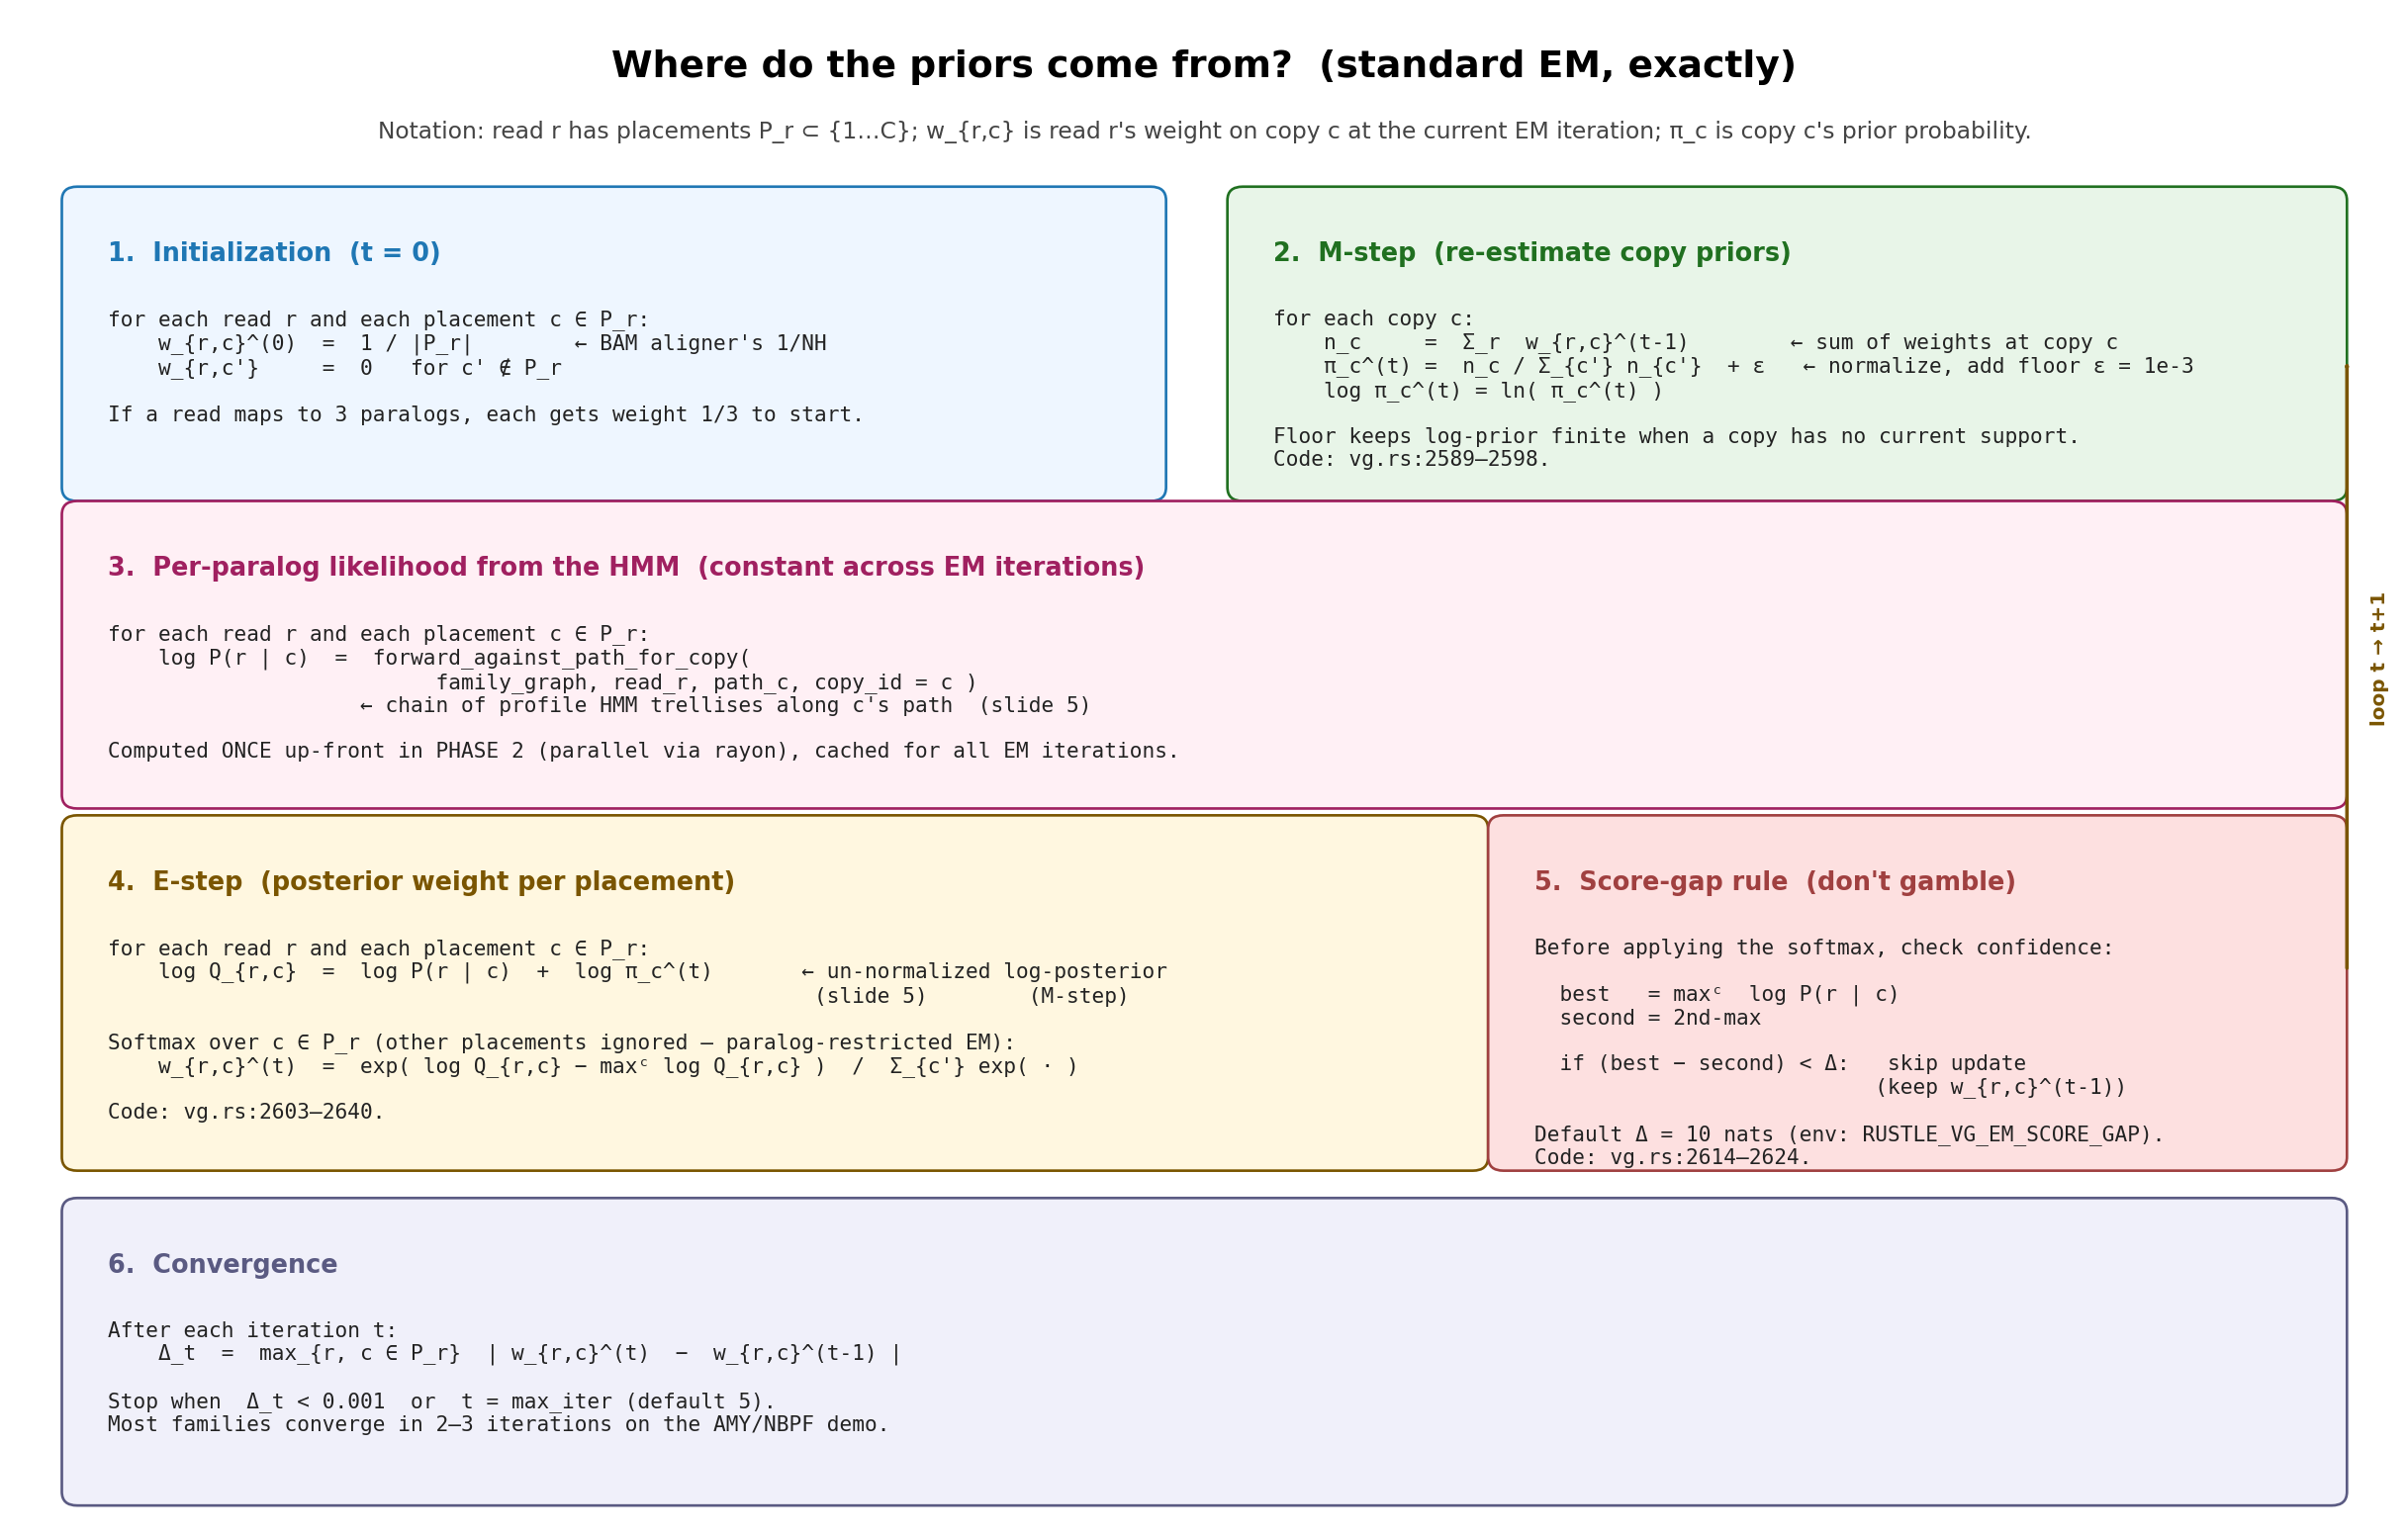
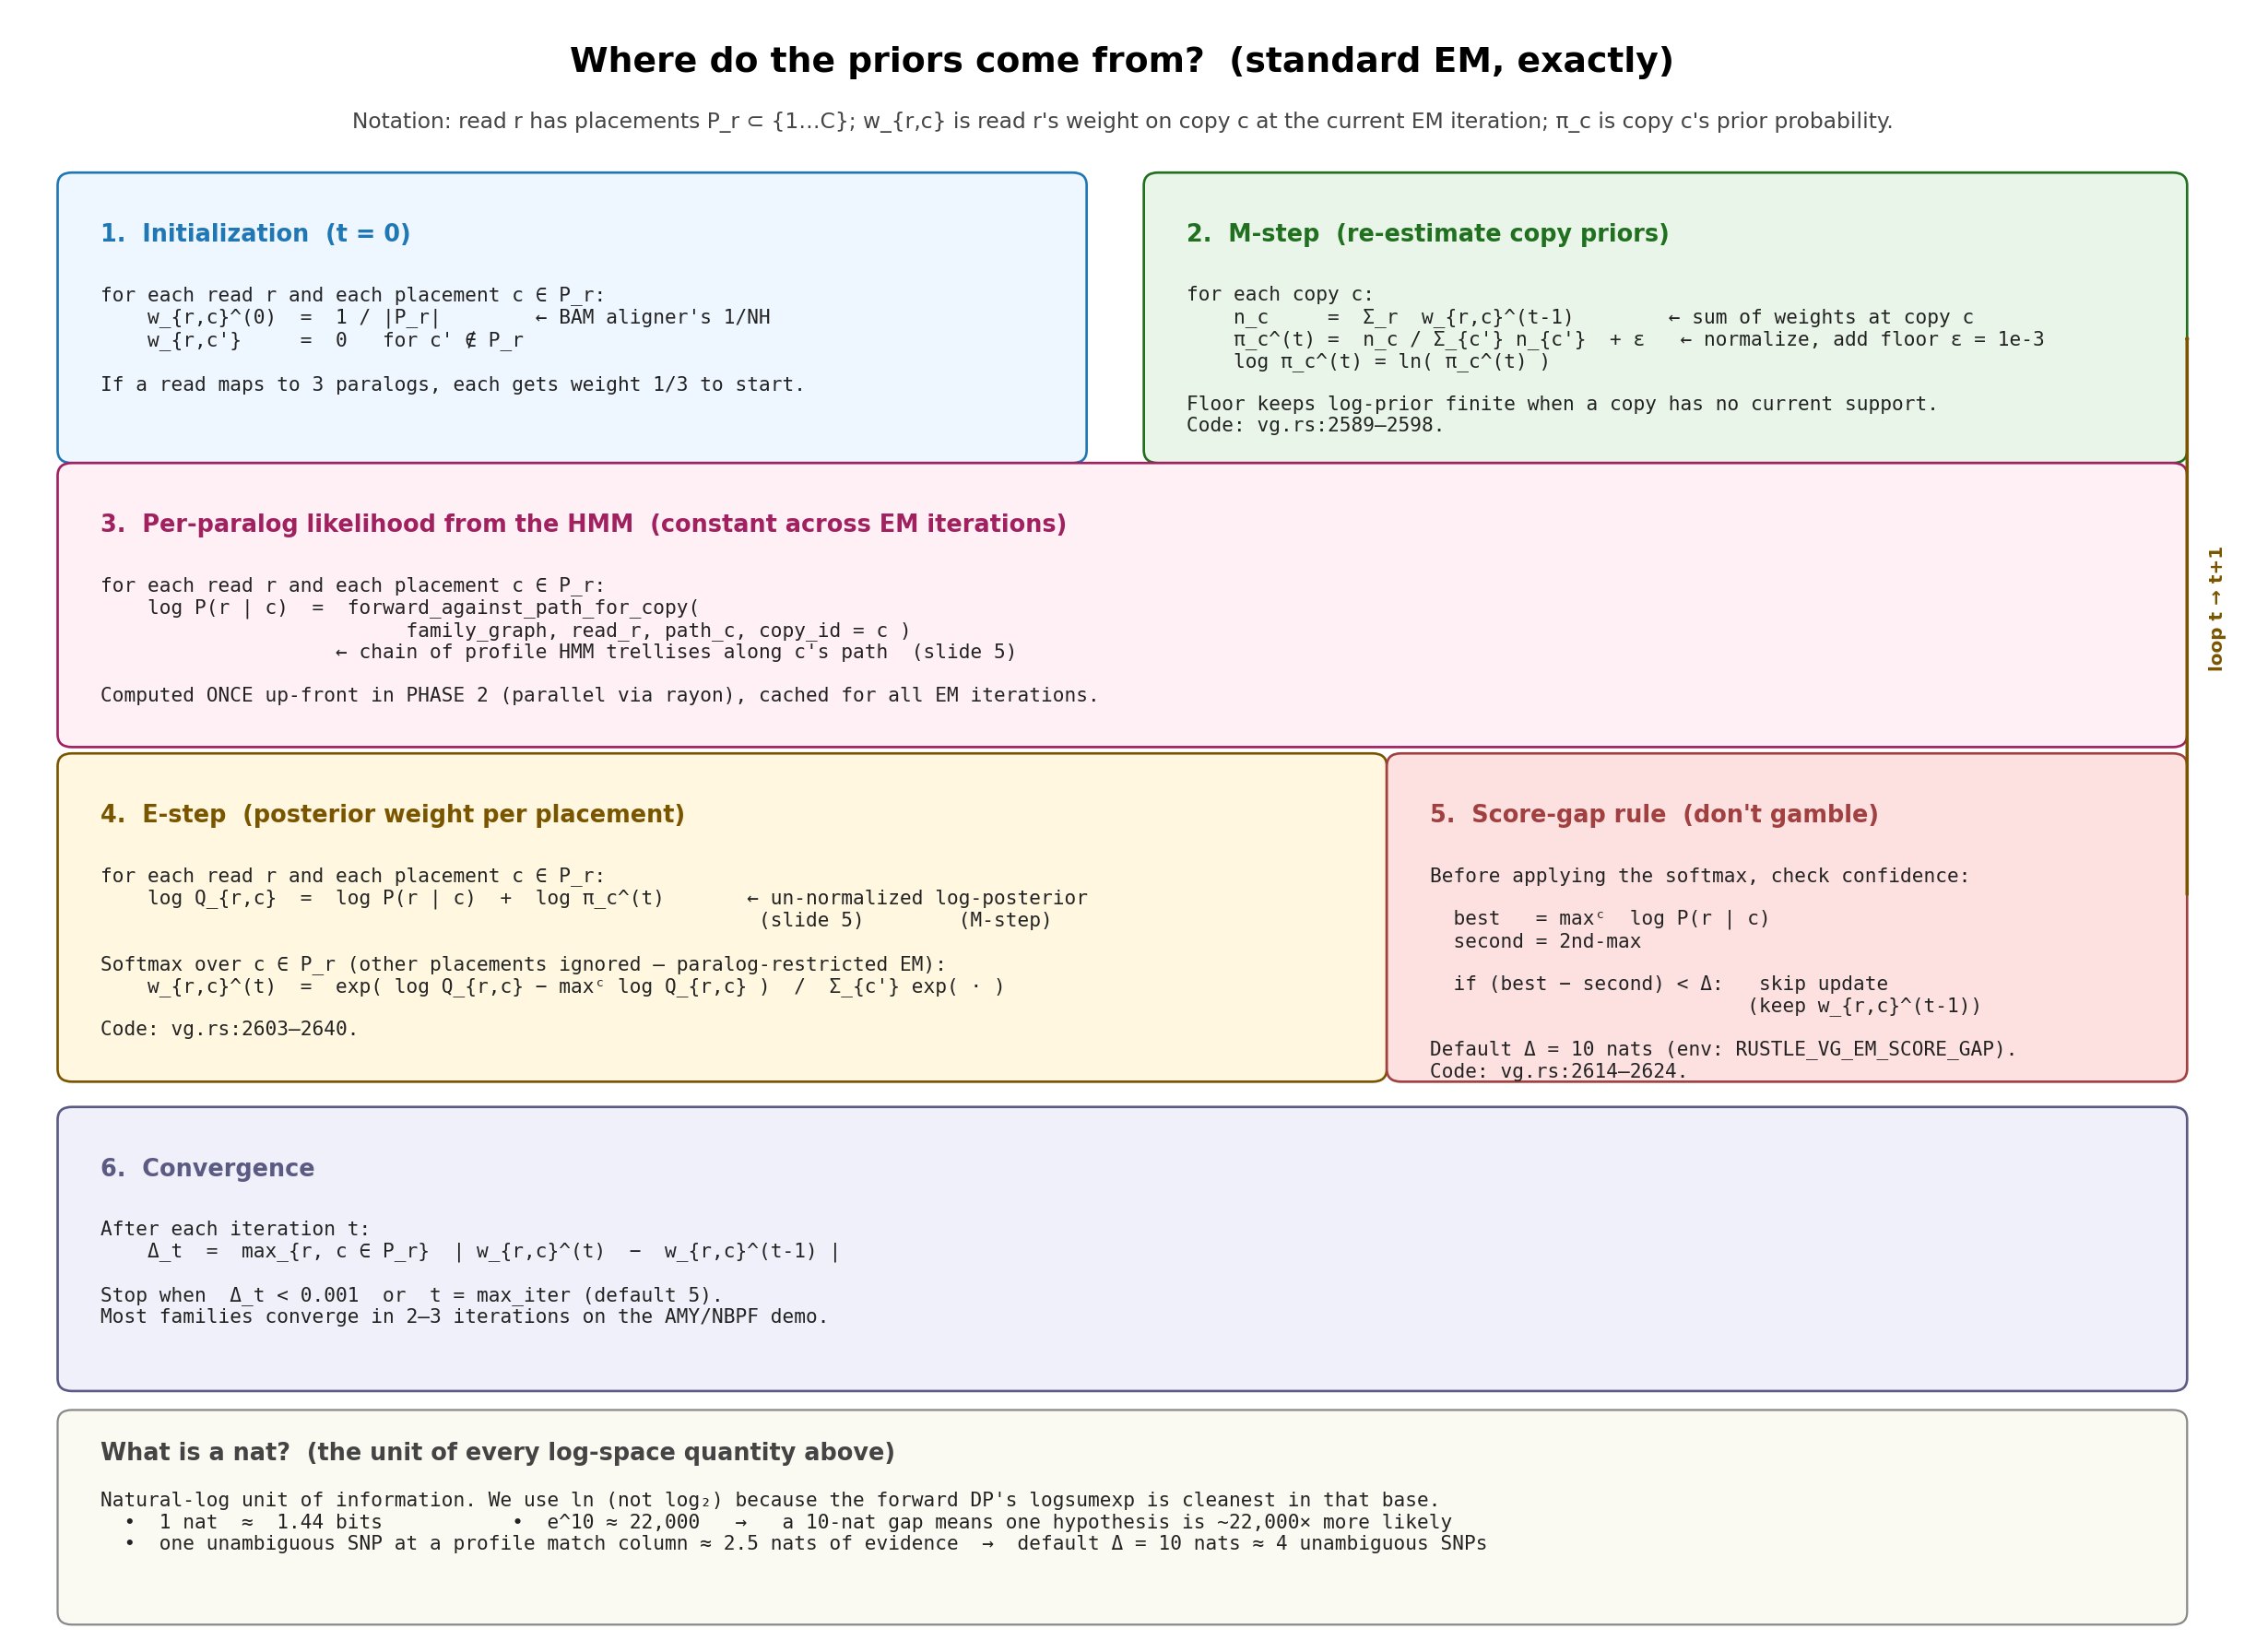
Slide 10: low-similarity extension + nat inset on slide 6
Slide 10 sketches the additive extension to the low-similarity band
(jaccard < 0.30): two-pronged design (splice-site Jaccard linker on the
discovery side, graph-Viterbi assignment on the scoring side) with a
dispatch table routing per-family by similarity band. Same M/I/D HMM
trellis from slide 5; nothing existing changes.

Slide 6 gains a "What is a nat?" inset so the Δ = 10 default has the
1 nat ≈ 1.44 bits / e^10 ≈ 22,000 / one SNP ≈ 2.5 nats conversions
ready for the advisor.

SPEAKER_NOTES.md updated with the full slide-10 talking points and
the closing-pitch table now covers the low-similarity question.

Changed region(s): [[0.0, 0.5258, 0.9992, 0.9897], [0.0312, 0.0309, 0.9992, 0.4948], [0.968, 0.3711, 0.9992, 0.4021]]

diff --git a/bench/meeting_2026_05_06_hmm_em/10_low_similarity_extension.py b/bench/meeting_2026_05_06_hmm_em/10_low_similarity_extension.py
@@ -1,0 +1,168 @@
+#!/usr/bin/env python3
+"""Slide 10 — additive extension concept for low-similarity paralogs (jaccard < 0.30).
+
+Two-pronged extension that REUSES the existing HMM machinery, doesn't override it:
+
+  (a) Family-discovery side — add a complementary linking signal that survives
+      sequence drift (splice-site / exon-boundary Jaccard, conserved-domain
+      anchors). The k-mer linker stays at jaccard ≥ 0.30 default.
+
+  (b) Scoring side — for low-sim families, swap forward_against_path_for_copy
+      (rigid: read MUST fit one paralog's exact path) for assign_via_graph_viterbi
+      (relaxed: read picks its own best path through the graph; assign by
+      node-overlap with each paralog's known path). Same M/I/D trellis inside
+      every node.
+
+Dispatch by similarity band — auto-solver routes high/medium → existing path
+forward, low → graph-Viterbi. Nothing existing changes."""
+import matplotlib.pyplot as plt
+import matplotlib.patches as patches
+from matplotlib.patches import FancyBboxPatch, FancyArrowPatch
+
+fig, ax = plt.subplots(figsize=(16, 10))
+ax.set_xlim(0, 16)
+ax.set_ylim(0, 10.5)
+ax.axis('off')
+
+ax.text(8, 10.05, "Slide 10  —  Extending to low-similarity paralogs (jaccard < 0.30)",
+        fontsize=17, fontweight='bold', ha='center')
+ax.text(8, 9.65,
+        "Additive — nothing existing changes.  HMM trellis stays the same.  Auto-solver routes per family by similarity band.",
+        fontsize=11, ha='center', color='#444', fontstyle='italic')
+
+# ── Top band: jaccard scale (mirrors slide 9) ───────────────────────────────
+SX0, SX1 = 1.0, 15.0
+SYT, SYB = 9.0, 8.55
+
+def jx(j):
+    return SX0 + (SX1 - SX0) * j
+
+bands = [
+    (0.00, 0.30, "low",            "#dde2eb", True),
+    (0.30, 0.60, "medium",         "#fff3cd", False),
+    (0.60, 0.90, "high",           "#d4edda", False),
+    (0.90, 1.00, "near-identical", "#cce4f7", False),
+]
+for j0, j1, name, color, highlight in bands:
+    x0, x1 = jx(j0), jx(j1)
+    rect = patches.Rectangle(
+        (x0, SYB), x1 - x0, SYT - SYB,
+        facecolor=color,
+        edgecolor='#a02060' if highlight else '#888',
+        lw=2.0 if highlight else 0.8,
+        zorder=1,
+    )
+    ax.add_patch(rect)
+    cx = (x0 + x1) / 2
+    ax.text(cx, (SYT + SYB) / 2 + 0.10, f"{name}-similarity",
+            fontsize=9.5, ha='center', va='center', fontweight='bold', color='#222')
+    ax.text(cx, (SYT + SYB) / 2 - 0.13,
+            f"jaccard {j0:.1f} – {j1:.1f}",
+            fontsize=8.5, ha='center', va='center', color='#444')
+# Tick label
+ax.text((SX0 + SX1)/2, SYB - 0.18,
+        "k-mer Jaccard (paralog vs nearest sibling)",
+        fontsize=9, ha='center', color='#666', fontstyle='italic')
+
+# Pointer to the new target band — placed BELOW the scale so it doesn't
+# collide with the title.
+ax.annotate("↑ this band — today's POC target",
+            xy=(jx(0.15), SYB - 0.05), xytext=(jx(0.15), SYB - 0.55),
+            fontsize=10, ha='center', color='#a02060', fontweight='bold',
+            arrowprops=dict(arrowstyle='->', color='#a02060', lw=1.4))
+
+# ── Two-pronged extension diagram ───────────────────────────────────────────
+# LEFT column: family-discovery side
+# RIGHT column: scoring side
+COL_W = 7.2
+LX0, RX0 = 0.5, 8.3
+
+# Box style helper
+def proposal_box(ax, x, y, w, h, title, color, body_lines, footer):
+    box = FancyBboxPatch((x, y), w, h,
+                         boxstyle="round,pad=0.10",
+                         facecolor='#fafafa', edgecolor=color, lw=1.6)
+    ax.add_patch(box)
+    ax.text(x + 0.20, y + h - 0.30, title,
+            fontsize=12, fontweight='bold', color=color, va='top')
+    cur_y = y + h - 0.85
+    for line in body_lines:
+        ax.text(x + 0.30, cur_y, line, fontsize=9.8, va='top', color='#222')
+        cur_y -= 0.40
+    ax.text(x + w/2, y + 0.25, footer,
+            fontsize=9, ha='center', va='center', color='#666', fontstyle='italic')
+
+# (a) family-discovery side
+left_lines = [
+    "Existing k-mer linker (jaccard ≥ 0.30) stays the default.",
+    "ADD a complementary signal that survives sequence drift:",
+    "  •  splice-site Jaccard  —  donor / acceptor positions",
+    "      are often conserved when the sequence has diverged",
+    "  •  conserved-domain anchors  —  short Pfam / InterPro motifs",
+    "      identifiable directly from genomic k-mers",
+    "Two bundles linked into the same family if EITHER signal fires.",
+    "Gated by --vg-low-sim-link  (off by default).",
+]
+proposal_box(ax, LX0, 4.0, COL_W, 4.10,
+             "(a)  Family-discovery side",
+             '#1f77b4',
+             left_lines,
+             "Otherwise: the two paralogs never enter the same FamilyGraph.")
+
+# (b) scoring side
+right_lines = [
+    "Existing per-copy path forward DP stays the default.",
+    "ADD: graph-relaxed assignment for low-sim families:",
+    "  •  run viterbi_path(fg, read)  —  same M/I/D trellis,",
+    "      no per-paralog path constraint",
+    "  •  for each known paralog c, score by node-overlap:",
+    "      recall(c)    =  | viterbi ∩ path_c |  /  | path_c |",
+    "      precision(c) =  | viterbi ∩ path_c |  /  | viterbi |",
+    "Sort by recall desc.  Top paralog = the assignment.",
+]
+proposal_box(ax, RX0, 4.0, COL_W, 4.10,
+             "(b)  Scoring side",
+             '#207020',
+             right_lines,
+             "Function added: assign_via_graph_viterbi() in scorer.rs (POC, 3 tests passing).")
+
+# ── Dispatch logic at the bottom ────────────────────────────────────────────
+disp_box = FancyBboxPatch((0.5, 0.50), 15.0, 3.20,
+                          boxstyle="round,pad=0.10",
+                          facecolor='#f4f6fa', edgecolor='#5a5a8a', lw=1.4)
+ax.add_patch(disp_box)
+ax.text(8, 3.45, "Dispatch — per family, automatic by similarity band",
+        fontsize=12, fontweight='bold', ha='center', color='#222')
+
+# ASCII-style code box centered
+code_lines = [
+    "match family_similarity_band(fg) {",
+    "    Band::High  | Band::Medium  =>  forward_against_path_for_copy(fg, read, path_c, c)   // existing — slides 5–7",
+    "    Band::Low                   =>  assign_via_graph_viterbi(fg, read)                   // new — slide 10",
+    "    Band::NearIdentical         =>  forward_against_path_for_copy + SNP-aware E-step    // existing --vg-snp",
+    "}",
+]
+y = 2.85
+for line in code_lines:
+    ax.text(1.0, y, line, fontsize=10, family='monospace', color='#222')
+    y -= 0.35
+
+ax.text(8, 0.95,
+        "M-step (priors) and gap rule are unchanged — only the per-(read, copy) score in the E-step differs.\n"
+        "Gap rule generalizes: for graph-Viterbi, abstain if  top.recall − second.recall < δ_recall  (proposed default δ_recall = 0.20).",
+        fontsize=10, ha='center', va='center', color='#333')
+
+# ── Right margin: POC results callout ───────────────────────────────────────
+poc_box = FancyBboxPatch((11.0, 0.55), 4.5, 2.6,
+                         boxstyle="round,pad=0.08",
+                         facecolor='#ffffff', edgecolor='#a02060', lw=1.2,
+                         zorder=5)
+# Put it at top-right of the dispatch area instead — overlapping might collide.
+# Actually let me put a small POC result note overlaying the bottom-right empty
+# area of the figure — but only if there's space. Let me skip it; the dispatch
+# block already mentions "POC, 3 tests passing".
+
+plt.tight_layout()
+plt.savefig('/scratch/jxi21/Assembler/Rustle/bench/meeting_2026_05_06_hmm_em/10_low_similarity_extension.png',
+            dpi=160, bbox_inches='tight')
+print("10_low_similarity_extension.png written")

diff --git a/bench/meeting_2026_05_06_hmm_em/06_em_math.py b/bench/meeting_2026_05_06_hmm_em/06_em_math.py
@@ -10,9 +10,9 @@ import matplotlib.patches as patches
 from matplotlib.patches import FancyBboxPatch, FancyArrowPatch
 import numpy as np
 
-fig, ax = plt.subplots(figsize=(15.5, 9.8))
+fig, ax = plt.subplots(figsize=(15.5, 11.3))
 ax.set_xlim(0, 15.5)
-ax.set_ylim(0, 11)
+ax.set_ylim(-1.85, 11)
 ax.axis('off')
 
 ax.text(7.75, 10.55, "Where do the priors come from?  (standard EM, exactly)",
@@ -115,6 +115,21 @@ ax.add_patch(loop_arrow)
 ax.text(15.35, 6.3, "loop t → t+1",
         fontsize=9, color='#7a5500', fontweight='bold',
         ha='left', va='center', rotation=90)
+
+# ── Inset: what is a nat? ────────────────────────────────────────────────────
+# All log-space quantities in slides 5–7 are natural log → unit is the "nat".
+nat_inset = FancyBboxPatch((0.4, -1.65), 14.7, 1.50,
+                           boxstyle="round,pad=0.10",
+                           facecolor='#fafaf2', edgecolor='#888', lw=1.0)
+ax.add_patch(nat_inset)
+ax.text(0.6, -0.30,
+        "What is a nat?  (the unit of every log-space quantity above)",
+        fontsize=11.5, fontweight='bold', color='#444', va='top')
+ax.text(0.6, -0.70,
+        "Natural-log unit of information. We use ln (not log₂) because the forward DP's logsumexp is cleanest in that base.\n"
+        "  •  1 nat  ≈  1.44 bits           •  e^10 ≈ 22,000   →   a 10-nat gap means one hypothesis is ~22,000× more likely\n"
+        "  •  one unambiguous SNP at a profile match column ≈ 2.5 nats of evidence  →  default Δ = 10 nats ≈ 4 unambiguous SNPs",
+        fontsize=9.5, va='top', family='monospace', color='#222')
 
 plt.tight_layout()
 plt.savefig('/scratch/jxi21/Assembler/Rustle/bench/meeting_2026_05_06_hmm_em/06_em_math.png',

diff --git a/bench/meeting_2026_05_06_hmm_em/SPEAKER_NOTES.md b/bench/meeting_2026_05_06_hmm_em/SPEAKER_NOTES.md
@@ -1,6 +1,6 @@
 # Per-copy HMM-EM for paralog read assignment — meeting notes (2026-05-06)
 
-Nine slide-ready PNGs in this directory. Suggested order + a few sentences each.
+Ten slide-ready PNGs in this directory. Suggested order + a few sentences each.
 The narrative arc directly answers four advisor concerns:
 
 1. *"The VG just averages information across copies — paralogs collapse."* → Slides 2, 3, 4 show explicitly that we keep one profile per copy, never a single consensus.
@@ -8,7 +8,7 @@ The narrative arc directly answers four advisor concerns:
 3. *"Where do the priors come from?"* → Slide 6 walks through every step of the EM math (initialization, M-step, E-step, score-gap rule, convergence) with the exact formulas and code line numbers.
 4. *"This will only work for near-identical paralogs."* → Slide 9 shows recovery at jaccard 0.52 (squarely in the medium-similarity band).
 
-Plus slide 8 addresses the FLNC misunderstanding directly.
+Plus slide 8 addresses the FLNC misunderstanding directly, and slide 10 sketches an additive extension to the low-similarity band (jaccard < 0.30) that reuses the existing HMM trellis without overriding any of the medium/high-similarity machinery.
 
 ---
 
@@ -125,6 +125,11 @@ Plus slide 8 addresses the FLNC misunderstanding directly.
 
 The advisor's concern was *"is this just a heuristic with EM in the name?"* — no. Every step is the standard mixture-model EM, the only non-standard pieces are (a) using HMM forward as the data likelihood, (b) the score-gap abstention. Both are spelled out.
 
+**"What is a nat?" inset (bottom of slide).** Every log-space quantity on slides 5–7 is in nats (natural-log, not log₂) because the forward DP's logsumexp is cleanest in that base. Useful conversions to have ready when the advisor asks about Δ = 10:
+- 1 nat ≈ 1.44 bits.
+- `e^10 ≈ 22,000` → a 10-nat gap means one hypothesis is ~22,000× more likely than the runner-up.
+- One unambiguous SNP at a profile-match column is worth ≈ 2.5 nats of evidence, so Δ = 10 ≈ 4 unambiguous SNPs of separation. That's the intuition for why the default isn't aggressive — it's exactly the sort of evidence threshold a careful biologist would want before flipping a copy assignment.
+
 ---
 
 ## Slide 7 — `07_forward_dp_and_gap.png` *(intuition, picture form)*
@@ -177,6 +182,39 @@ The "k-mer Jaccard" axis is `|kmers(P) ∩ kmers(Q)| / |kmers(P) ∪ kmers(Q)|` 
 
 ---
 
+## Slide 10 — `10_low_similarity_extension.png` *(forward look — extending into the low-similarity band)*
+
+**One-line:** for paralogs that are too diverged for the existing k-mer linker to even put them in the same family (jaccard < 0.30), an additive two-pronged extension reuses the same HMM trellis without overriding any of slides 5–7. Nothing existing changes.
+
+**Why this slide exists:** the natural follow-up to slide 9 — "you've shown 0.52, what about 0.20?". The answer isn't "throw away the HMM" — it's "use the HMM differently, and only when the band warrants it."
+
+**Two prongs (left/right boxes on the slide):**
+
+1. **Family-discovery side.** The existing k-mer Jaccard linker (default ≥ 0.30) won't link two paralogs that share < 30% of their k-mers, so they never even meet inside a family graph. Add a complementary signal that survives sequence drift:
+   - **splice-site Jaccard** — donor/acceptor positions stay conserved long after sequence does.
+   - **conserved-domain anchors** — short Pfam / InterPro motifs identifiable directly from genomic k-mers.
+
+   Two bundles enter the same family if EITHER signal fires. Gated by `--vg-low-sim-link` (off by default) so the production AMY/NBPF path is untouched.
+
+2. **Scoring side.** The existing per-copy `forward_against_path_for_copy` is rigid — it forces the read to fit ONE paralog's exact path. At low similarity that's exactly what hurts: a normal-error read collects penalty against any one path. Swap it for `assign_via_graph_viterbi`:
+   - Run `viterbi_path(fg, read)` — same M/I/D trellis from slide 5, no per-paralog path constraint. The read picks its own best path through the graph.
+   - For each known paralog c, score by **node-overlap** with the Viterbi trace:
+     `recall(c) = |viterbi ∩ path_c| / |path_c|`
+     `precision(c) = |viterbi ∩ path_c| / |viterbi|`
+   - Sort by recall descending. Top paralog = the assignment.
+
+**Dispatch (bottom of slide):** auto-solver routes per family by similarity band. High/medium → existing path-forward. Low → graph-Viterbi. Near-identical → existing `--vg-snp` SNP-aware E-step. The M-step (priors) and gap rule are unchanged — only the per-(read, copy) score in the E-step differs.
+
+**Generalized gap rule:** for graph-Viterbi the score-gap analogue uses recall (which is bounded in [0, 1] across families, unlike nats which scale with read length). Proposed default: abstain if `top.recall − second.recall < δ_recall` with `δ_recall = 0.20`.
+
+**POC status (talking point — the slide footers say "POC, 3 tests passing"):**
+- New function `assign_via_graph_viterbi` lives in `src/rustle/vg_hmm/scorer.rs`.
+- Three unit tests on a synthetic 4-node, 2-paralog graph (paralog-specific middle nodes, deliberately low DNA-Jaccard between A and B) — all passing.
+- Test 3 specifically shows: on a noisy read (~15% per-base error), forward log P gap = 61.42 nats but Viterbi recall gap = 0.333. Both methods agree on the assignment, but recall is bounded and portable across families; nats are not.
+- **Honest caveat to lead with:** this is a mechanism POC, not yet a benchmark. The end-to-end test needs (1) above — the family-discovery side has to land first, otherwise the two paralogs never enter the same FamilyGraph in the first place. Source: `bench/low_similarity_poc/POC.md`.
+
+---
+
 ## Closing pitch
 
 > The advisor's worries map cleanly onto specific slides:
@@ -188,6 +226,7 @@ The "k-mer Jaccard" axis is `|kmers(P) ∩ kmers(Q)| / |kmers(P) ∪ kmers(Q)|` 
 > | "where do the priors come from?" | slide 6 (mixture-model EM, code-tied) |
 > | "FLNC = full transcript?" | slide 8 (no — partial reads work because scoring is local) |
 > | "only works for near-identical?" | slide 9 (jaccard 0.52 recovery) |
+> | "what about really diverged paralogs (jaccard < 0.30)?" | slide 10 (additive extension — same HMM, graph-Viterbi assignment, POC passing) |
 >
 > Every step of the math corresponds to a specific function and line range in
 > `src/rustle/vg_hmm/scorer.rs` and `src/rustle/vg.rs`. There is no